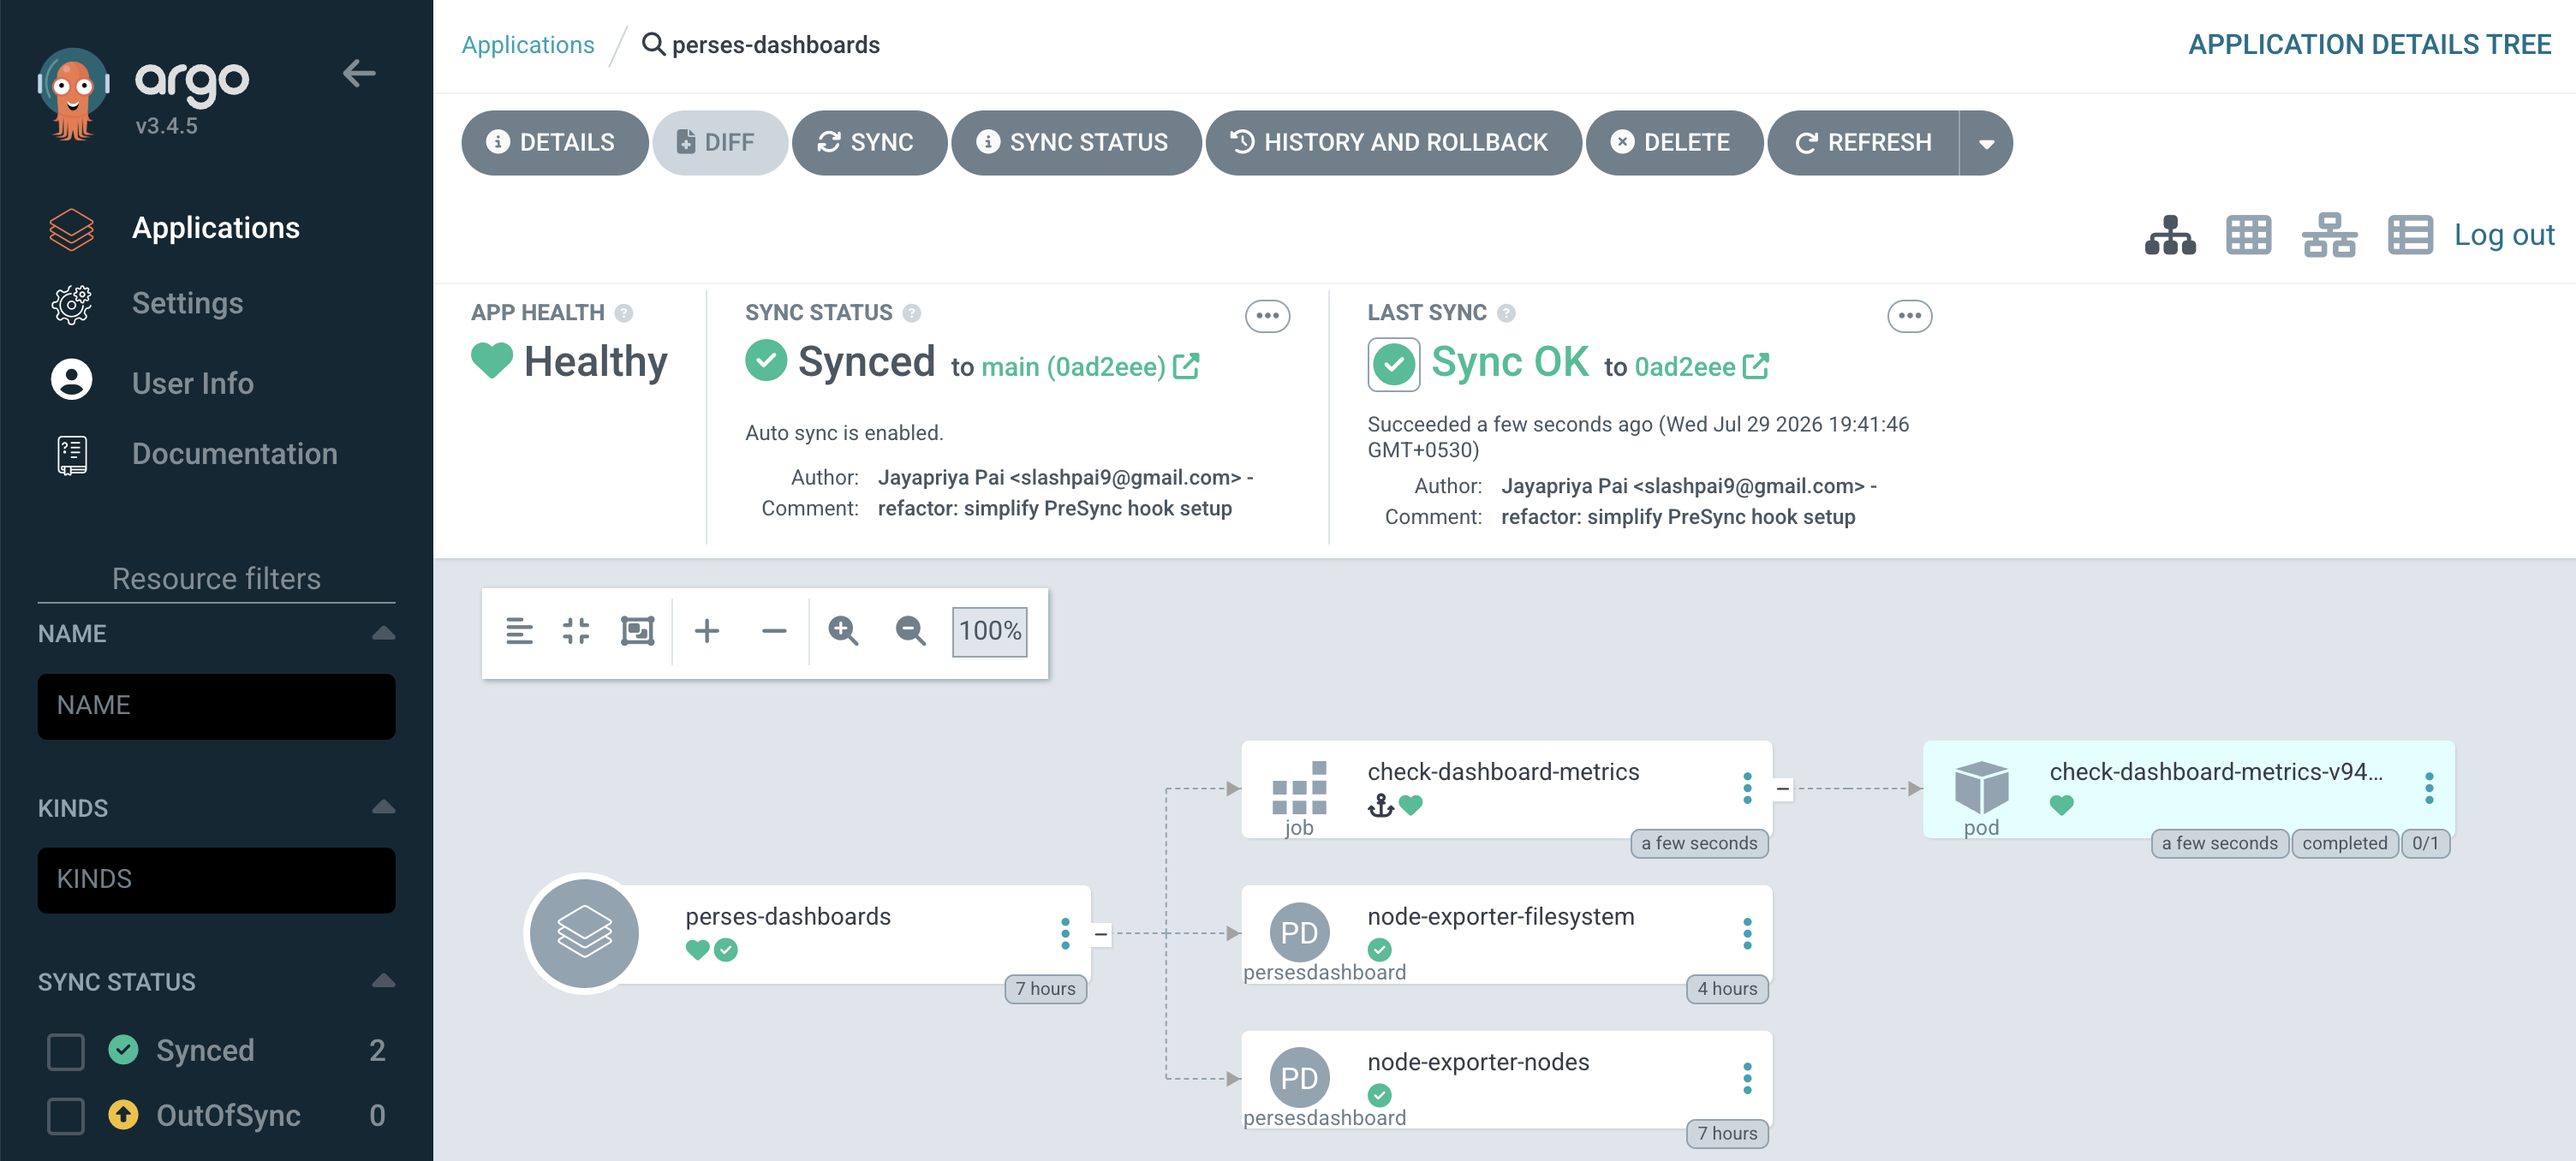
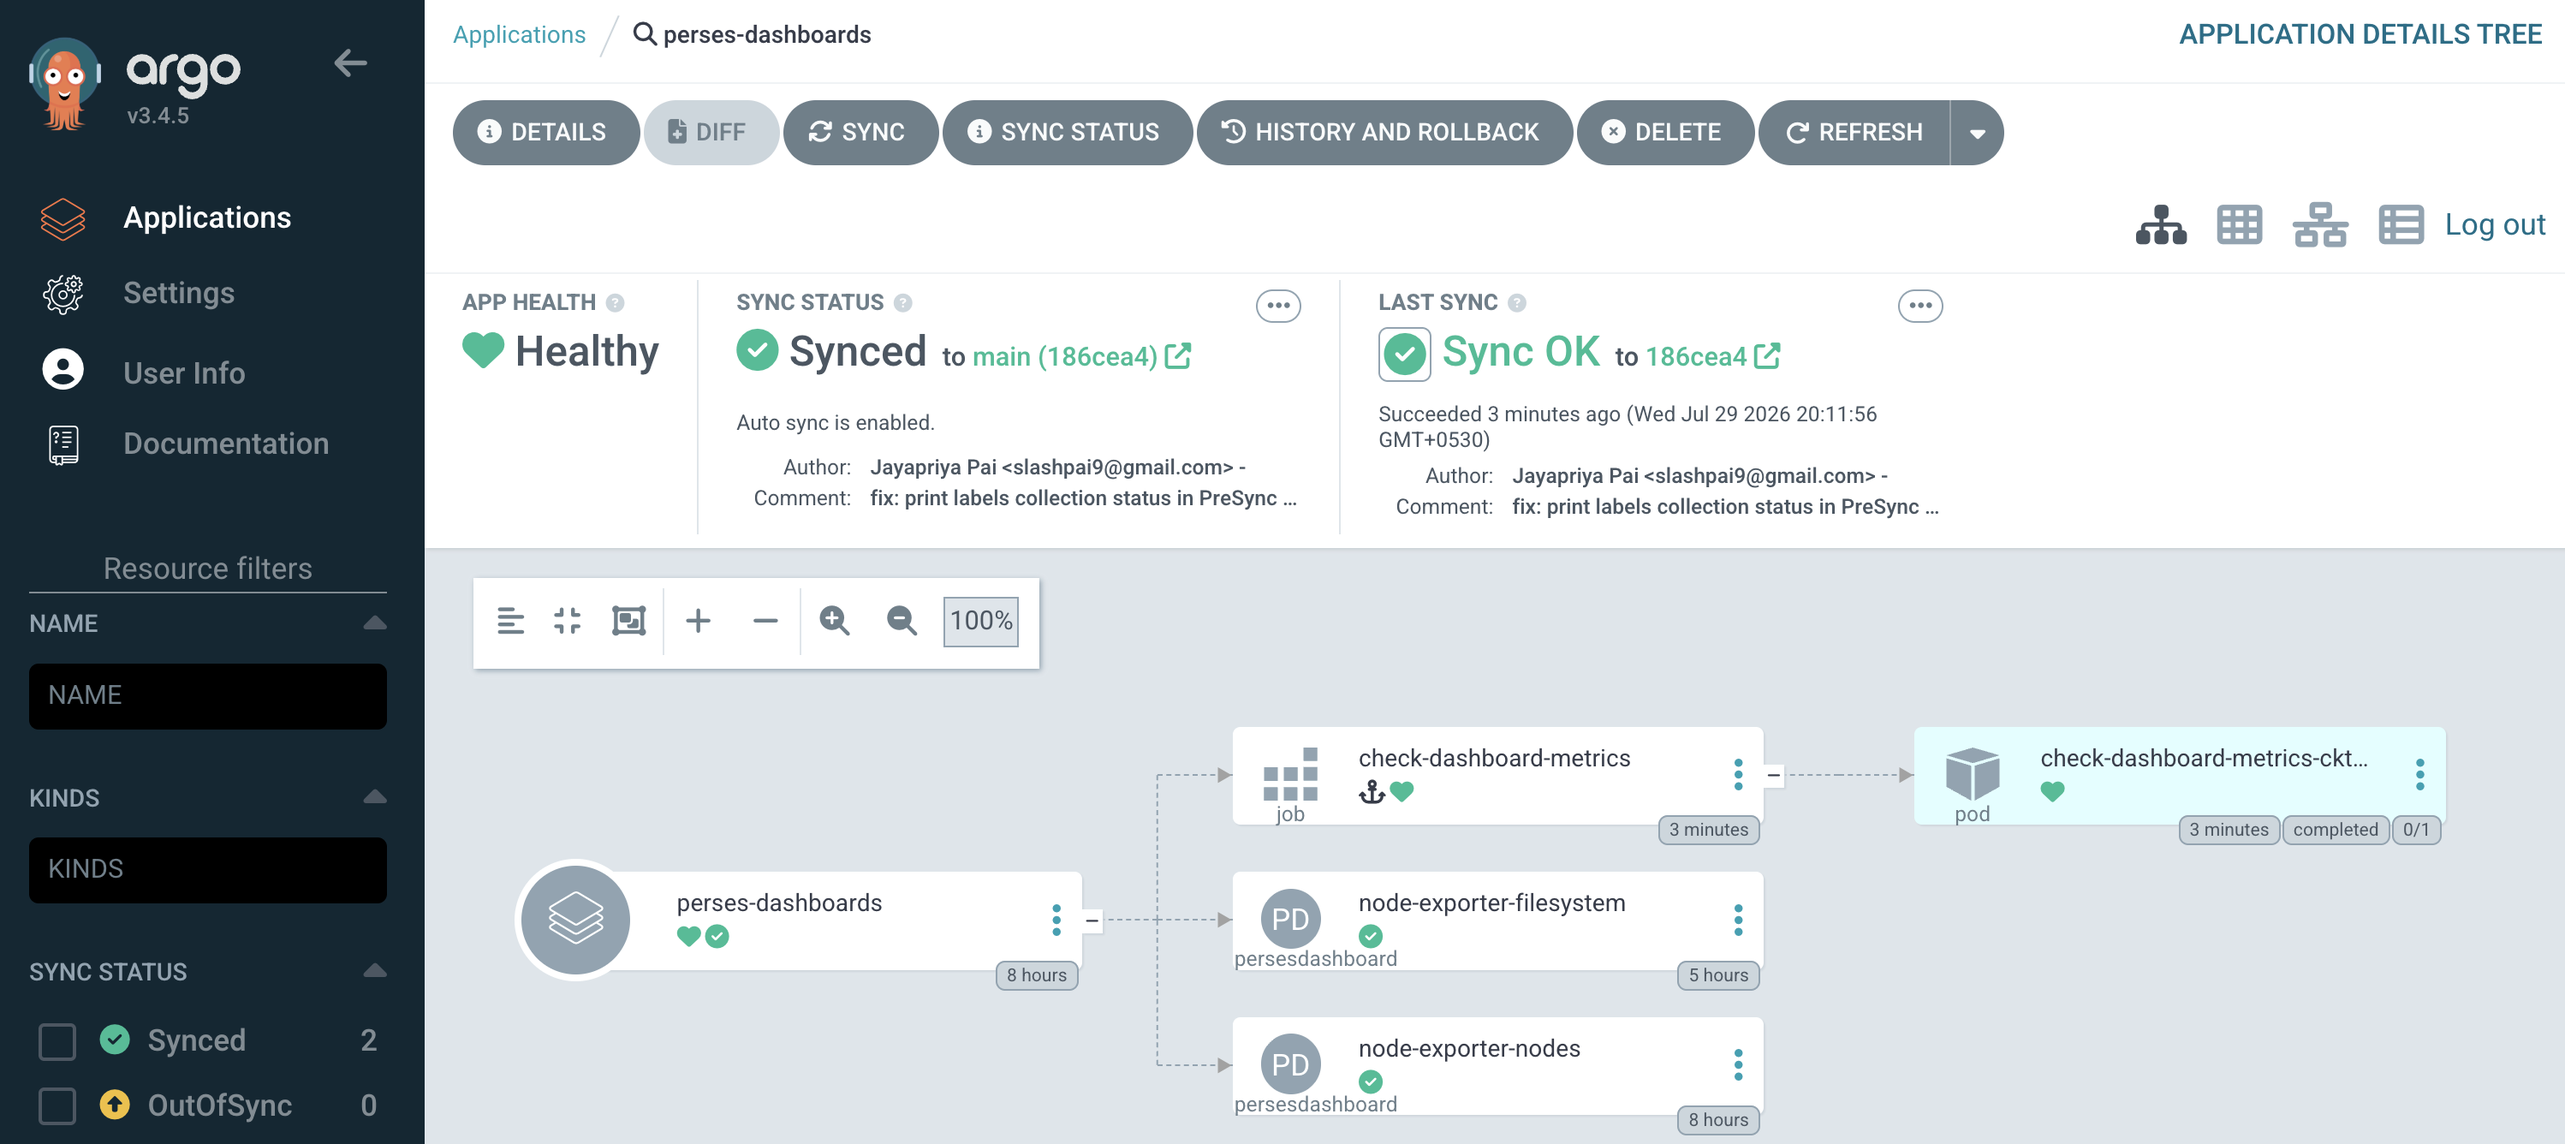
docs: add force-sync instructions and new screenshots
Add force-sync command to Argo CD README. Embed synced-dashboard,
synced-new-dashboard, and PreSync Job logs screenshots in root README.

diff --git a/README.md b/README.md
@@ -53,6 +53,10 @@ See [`deploy/argocd/README.md`](deploy/argocd/README.md) for Argo CD UI, polling
 
 ![Argo CD Applications list — perses-dashboards Healthy / Synced](docs/img/argocd-app.png)
 
+![Argo CD synced dashboard resources](docs/img/synced-dashboard.png)
+
+![Argo CD synced new dashboard resource](docs/img/synced-new-dashboard.png)
+
 **Node Exporter / Nodes** (CPU, load, memory, network) and **Filesystem** (used disk space ratio):
 
 ![Node Exporter / Nodes dashboard in Perses](docs/img/perses-node-exporter-dashboard-demo.png)
@@ -81,6 +85,8 @@ make check-labels          # verify label matchers against Prometheus labels
 Collectors run once on startup, then refresh daily (`period: 1d`). A PreSync Job gates every Argo CD sync. See [`deploy/argocd/README.md`](deploy/argocd/README.md) and [`deploy/metrics-usage/README.md`](deploy/metrics-usage/README.md) for details.
 
 ![Argo CD resource tree showing PreSync check-dashboard-metrics Job](docs/img/metrics-usage-as-presync-hook.png)
+
+![PreSync Job logs — metrics and labels checks](docs/img/metrics-usage-as-presync-hook-logs.png)
 
 ## Related
 

diff --git a/deploy/argocd/README.md b/deploy/argocd/README.md
@@ -27,6 +27,21 @@ kubectl -n argocd get secret argocd-initial-admin-secret \
   -o jsonpath='{.data.password}' | base64 -d; echo
 ```
 
+## Force a sync
+
+Trigger an immediate sync without waiting for the next poll:
+
+```sh
+kubectl -n argocd patch application perses-dashboards --type merge \
+  -p '{"operation":{"initiatedBy":{"username":"admin"},"sync":{"revision":"HEAD"}}}'
+```
+
+Watch the PreSync Job logs:
+
+```sh
+kubectl logs -n perses-dev job/check-dashboard-metrics -f
+```
+
 ## Troubleshooting
 
 ### DNS timeouts (`lookup … i/o timeout`) on kind + Podman
